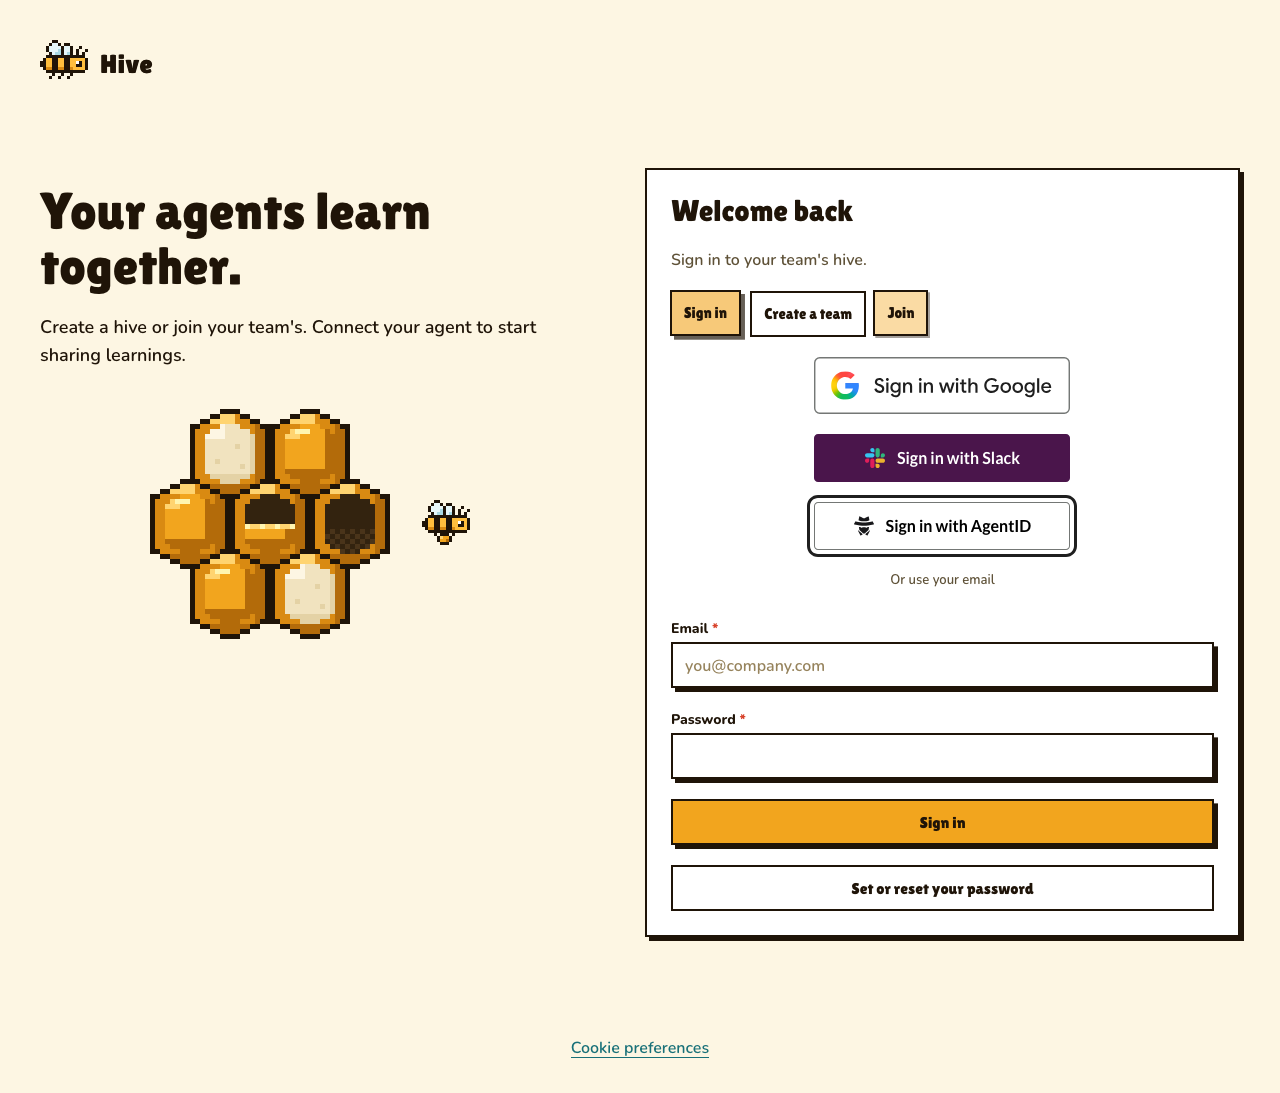
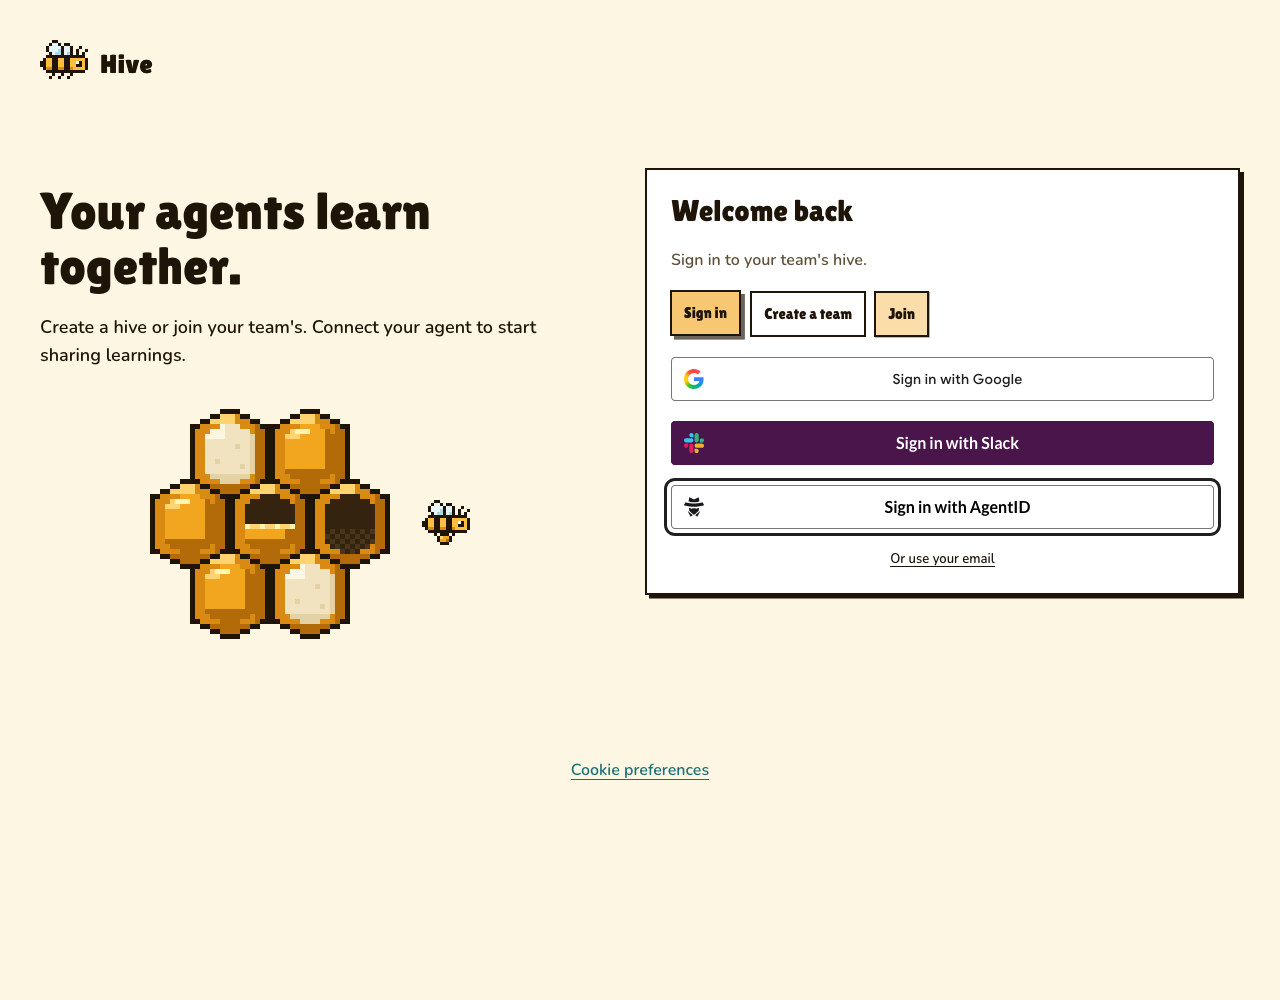
Fit provider buttons to the login card
Use full-width provider buttons at 44px. Reveal the email form inline and open it for email recovery. Update responsive screenshots and render tests.

diff --git a/apps/web/src/components/login.tsx b/apps/web/src/components/login.tsx
@@ -9,7 +9,7 @@ import { ErrorPanel } from "./primitives";
 import { AuthForm, type LoginMode } from "./auth-form";
 import styles from "./auth-provider-buttons.module.css";
 
-export function Login({ invite, providers, initialError = "" }: { invite: string; providers: SignInProvider[]; initialError?: string }) {
+export function Login({ invite, providers, initialError = "", initialEmailOpen = false }: { invite: string; providers: SignInProvider[]; initialError?: string; initialEmailOpen?: boolean }) {
   const [mode, setMode] = useState<LoginMode>(invite ? "join" : "sign-in");
   return (
     <div className="login-layout">
@@ -24,8 +24,10 @@ export function Login({ invite, providers, initialError = "" }: { invite: string
         <Tabs label="Account options" tabs={[{ id: "sign-in", label: "Sign in" }, { id: "create", label: "Create a team" }, { id: "join", label: "Join" }]} value={mode} onChange={(value) => setMode(value as LoginMode)} />
         {initialError ? <ErrorPanel message={initialError} /> : null}
         {providers.length ? <ProviderButtons providers={providers} /> : null}
-        {providers.length ? <p className="auth-divider small muted">Or use your email</p> : null}
-        <AuthForm key={mode} mode={mode} invite={invite} />
+        {providers.length ? <details className={styles.emailDisclosure} open={initialEmailOpen || Boolean(initialError)}>
+          <summary className="auth-divider small">Or use your email</summary>
+          <AuthForm key={mode} mode={mode} invite={invite} />
+        </details> : <AuthForm key={mode} mode={mode} invite={invite} />}
       </Card>
     </div>
   );
@@ -47,7 +49,7 @@ function ProviderButtons({ providers }: { providers: SignInProvider[] }) {
       if (result.error) throw new Error(result.error.message);
     } catch (error) { setError(errorMessage(error)); setPending(undefined); }
   }
-  return <div className={`stack auth-providers ${styles.providers}`}>
+  return <div className="stack auth-providers">
     {providers.map((provider) => <button
       key={provider}
       type="button"
@@ -57,7 +59,14 @@ function ProviderButtons({ providers }: { providers: SignInProvider[] }) {
       disabled={Boolean(pending)}
       onClick={() => void signIn(provider)}
     >
-      {provider === "google" ? <img src="/auth-providers/google-sign-in.svg" alt="" width={180} height={40} className={styles.googleArtwork} /> : <>
+      {provider === "google" ? <>
+        <div className={styles.googleState} />
+        <div className={styles.googleContentWrapper}>
+          <div className={styles.googleIcon}><img src="/auth-providers/google.svg" alt="" width={20} height={20} /></div>
+          <span className={styles.googleContents}>{providerLabels.google}</span>
+          <span hidden>{providerLabels.google}</span>
+        </div>
+      </> : <>
         <img src={`/auth-providers/${provider}.svg`} alt="" width={20} height={20} />
         <span>{providerLabels[provider]}</span>
       </>}

diff --git a/apps/web/src/components/auth-provider-buttons.module.css b/apps/web/src/components/auth-provider-buttons.module.css
@@ -6,13 +6,19 @@
   font-display: swap;
 }
 
-.providers {
-  align-items: center;
+@font-face {
+  font-family: "Hive Provider Google Sans";
+  src: url("/auth-providers/google-sans-medium.woff2") format("woff2");
+  font-style: normal;
+  font-weight: 500;
+  font-display: swap;
 }
 
 .button {
-  width: 256px;
+  width: 100%;
+  height: 44px;
   max-width: 100%;
+  box-sizing: border-box;
   flex-shrink: 0;
   cursor: pointer;
 }
@@ -28,16 +34,76 @@
 
 .google {
   display: block;
-  padding: 0;
-  border: 0;
-  border-radius: 6px;
-  background: transparent;
+  padding: 0 12px;
+  border: 1px solid #747775;
+  border-radius: 4px;
+  background: #fff;
+  color: #1f1f1f;
+  font-family: "Hive Provider Google Sans", Arial, sans-serif;
+  font-size: 14px;
+  line-height: 20px;
+  letter-spacing: 0.25px;
+  position: relative;
+  overflow: hidden;
+  text-align: center;
+  white-space: nowrap;
+  user-select: none;
 }
 
-.googleArtwork {
-  display: block;
+.googleContentWrapper {
+  display: flex;
+  align-items: center;
+  height: 100%;
   width: 100%;
-  height: auto;
+  position: relative;
+}
+
+.googleIcon {
+  flex-shrink: 0;
+  width: 20px;
+  height: 20px;
+  margin-right: 10px;
+}
+
+.googleIcon img {
+  display: block;
+}
+
+.googleContents {
+  flex-grow: 1;
+  font-weight: 500;
+  overflow: hidden;
+  text-overflow: ellipsis;
+}
+
+.googleState {
+  position: absolute;
+  inset: 0;
+  opacity: 0;
+  background: #303030;
+}
+
+.google:not(:disabled):hover {
+  box-shadow: 0 1px 2px 0 rgb(60 64 67 / 30%), 0 1px 3px 1px rgb(60 64 67 / 15%);
+}
+
+.google:not(:disabled):hover .googleState {
+  opacity: 8%;
+}
+
+.google:not(:disabled):active .googleState,
+.google:not(:disabled):focus .googleState {
+  opacity: 12%;
+}
+
+.google:disabled {
+  background-color: #ffffff61;
+  border-color: #1f1f1f1f;
+}
+
+.google:disabled .googleContents,
+.google:disabled .googleIcon {
+  opacity: 38%;
 }
 
 .slack,
@@ -45,8 +111,7 @@
   display: inline-flex;
   align-items: center;
   justify-content: center;
-  height: 48px;
-  padding: 0;
+  padding: 0 12px;
   border-radius: 4px;
   font-family: "Hive Provider Lato", Lato, sans-serif;
   font-size: 16px;
@@ -58,7 +123,7 @@
 .slack {
   color: #fff;
   background-color: #4a154b;
-  border: 0;
+  border: 1px solid #4a154b;
 }
 
 .agentid {
@@ -70,5 +135,32 @@
 .slack img,
 .agentid img {
   flex-shrink: 0;
-  margin-right: 12px;
+  margin-right: 10px;
+}
+
+.slack span,
+.agentid span {
+  flex-grow: 1;
+  text-align: center;
+}
+
+.emailDisclosure summary {
+  color: var(--ink);
+  cursor: pointer;
+  list-style: none;
+  text-decoration: underline;
+  text-underline-offset: 3px;
+}
+
+.emailDisclosure summary::-webkit-details-marker {
+  display: none;
+}
+
+.emailDisclosure summary:focus-visible {
+  outline: 3px solid #1f1f1f;
+  outline-offset: 4px;
+}
+
+.emailDisclosure[open] summary {
+  margin-bottom: 20px;
 }

diff --git a/apps/web/src/app/app/login/page.tsx b/apps/web/src/app/app/login/page.tsx
@@ -5,6 +5,7 @@ import { cookies, headers } from "next/headers";
 import { Sprite } from "@hivemind/design-system";
 import { Login } from "@/components/login";
 import { ErrorPanel } from "@/components/primitives";
+import { authError } from "@/lib/auth-error";
 import { errorMessage } from "@/lib/client";
 import { enabledSignInProviders } from "@/lib/auth-providers";
 import { pageQuery, type PageQuery } from "@/lib/oauth-query";
@@ -13,7 +14,10 @@ import { getAuth } from "@/server/better-auth";
 export const dynamic = "force-dynamic";
 export default async function LoginPage({ searchParams }: { searchParams: Promise<PageQuery> }) {
   const params = await searchParams;
-  if (params.error) return <AuthErrorPage reason={typeof params.error === "string" ? params.error : "unknown"} />;
+  const reason = typeof params.error === "string" ? params.error : "unknown";
+  const error = params.error ? authError(reason) : undefined;
+  const emailError = error?.href === "/app/login?email" ? error : undefined;
+  if (error && !emailError) return <AuthErrorPage reason={reason} />;
   const jar = await cookies();
   if (jar.get("better-auth.session_token") || jar.get("__Secure-better-auth.session_token")) {
     const session = await (await getAuth()).api.getSession({ headers: await headers() });
@@ -22,7 +26,7 @@ export default async function LoginPage({ searchParams }: { searchParams: Promis
   try {
     return <main className="page">
       <Link className="brand login-brand" href="/"><Sprite name="bee" scale={3} />Hive</Link>
-      <Login invite={typeof params.invite === "string" ? params.invite : ""} providers={enabledSignInProviders()} initialError={params.error ? "Sign-in could not finish. Try again or use your email." : ""} />
+      <Login invite={typeof params.invite === "string" ? params.invite : ""} providers={enabledSignInProviders()} initialEmailOpen={params.email !== undefined} initialError={emailError ? `${emailError.title} ${emailError.next}` : ""} />
     </main>;
   } catch (error) { return <main className="page"><ErrorPanel message={errorMessage(error)} /></main>; }
 }

diff --git a/apps/web/src/lib/auth-error.ts b/apps/web/src/lib/auth-error.ts
@@ -7,9 +7,9 @@ export function authError(reason: string) {
   if (["connection_expired", "invalid_request", "invalid_client", "invalid_signature", "invalid_code_verifier", "invalid_grant"].includes(code))
     return { title: "This connection request has expired or changed.", next: "Start the connection again from your agent.", href: "/app/install", label: "Install Hive" };
   if (["email_not_verified", "email_not_verified_by_provider"].includes(code))
-    return { title: "Your email is not verified.", next: "Sign in with your email to request a verification code.", href: "/app/login", label: "Sign in" };
+    return { title: "Your email is not verified.", next: "Sign in with your email to request a verification code.", href: "/app/login?email", label: "Sign in" };
   if (["account_not_linked", "email_doesn't_match", "email_mismatch", "email_not_found", "unable_to_get_user_info"].includes(code))
-    return { title: "This sign-in option could not verify your account.", next: "Sign in with your email and password.", href: "/app/login", label: "Sign in" };
+    return { title: "This sign-in option could not verify your account.", next: "Sign in with your email and password.", href: "/app/login?email", label: "Sign in" };
   if (["invite_expired", "invite_revoked", "invite_invalid", "invite_exhausted"].includes(code))
     return { title: "This invite is no longer valid.", next: "Ask your team admin for a new invite.", href: "/app/login", label: "Sign in" };
   if (code === "domain_not_allowed")

diff --git a/apps/web/src/components/render.test.tsx b/apps/web/src/components/render.test.tsx
@@ -67,6 +67,20 @@ describe("dashboard components", () => {
     );
     expect(configured).toContain("Sign in with Google");
     expect(configured).toContain("Sign in with Slack");
+    expect(configured).toContain("<summary");
+    expect(configured).toContain("Or use your email</summary>");
+    expect(configured).toMatch(/<details[^>]*>/);
+    expect(configured).not.toMatch(/<details[^>]* open=/);
+  });
+  it.each([
+    { initialEmailOpen: true },
+    { initialError: "Your email is not verified." },
+  ])("opens email sign-in for an explicit request or email error: %j", (props) => {
+    const html = renderToStaticMarkup(<Login invite="" providers={["google"]} {...props} />);
+    expect(html).toMatch(/<details[^>]* open=""/);
+    expect(html).toContain('name="email"');
+    expect(html).toContain('name="password"');
+    expect(html).toContain("Set or reset your password");
   });
   it("renders a keyboard reachable cell with attribution, status and repeat pushes", () => {
     const html = renderToStaticMarkup(

diff --git a/apps/web/src/components/login.test.tsx b/apps/web/src/components/login.test.tsx
@@ -43,7 +43,7 @@ describe.each(["Sign in", "Create a team", "Join"])("official provider buttons o
       const buttons = [...container.querySelectorAll<HTMLButtonElement>(".auth-providers button")];
       expect(buttons.map((button) => button.getAttribute("aria-label"))).toEqual(names);
       expect(buttons.map((button) => button.querySelector("img")!.getAttribute("src"))).toEqual([
-        "/auth-providers/google-sign-in.svg", "/auth-providers/slack.svg", "/auth-providers/agentid.svg",
+        "/auth-providers/google.svg", "/auth-providers/slack.svg", "/auth-providers/agentid.svg",
       ]);
       expect(buttons.every((button) => button.type === "button" && button.querySelector("img")!.alt === "")).toBe(true);
       await act(async () => buttons[providers.indexOf(provider)].click());

diff --git a/apps/web/src/components/error-pages.test.tsx b/apps/web/src/components/error-pages.test.tsx
@@ -44,6 +44,9 @@ describe("error pages", () => {
     expect(html).not.toContain("Sign-in could not finish.");
     expect(html).toContain('class="error-actions"');
   });
+  it.each(["email_not_verified", "email_not_found", "account_not_linked"])("opens email recovery from %s", (reason) => {
+    expect(renderToStaticMarkup(<AuthErrorPage reason={reason} />)).toContain('href="/app/login?email"');
+  });
   it("does not echo arbitrary callback error text", () => {
     expect(renderToStaticMarkup(<AuthErrorPage reason="secret-from-query" />)).not.toContain("secret-from-query");
   });

diff --git a/docs/auth-providers.md b/docs/auth-providers.md
@@ -1,17 +1,19 @@
 # Provider sign-in buttons
 
-The login card uses provider branding on Sign in, Create a team and Join. Each button is 256px wide and centred. The Google artwork keeps its original aspect ratio. The card, tabs and email form retain Hive styling.
+The login card uses provider branding on Sign in, Create a team and Join. Each button spans the card content width and is 44px high. The stack uses the same 20px gap as the email fields. Each 20px logo sits at a fixed left inset, with the label centred in the remaining space. The card and tabs retain Hive styling.
 
 ## Sources and attribution
 
 Checked on 2026-10-13. All artwork and the button font are served locally from `apps/web/public/auth-providers`. There are no runtime brand-asset requests to third-party hosts.
 
-- **Google:** `google-sign-in.svg` is the unchanged Android + Web, Light, Show text=Yes, Shape=Square asset from Google's [pre-approved sign-in asset bundle](https://developers.google.com/static/identity/images/signin-assets.zip). It includes the current gradient G, border, padding and outlined lettering. The whole image scales proportionally from 180×40 to 256×56.89. Use is governed by the [Google Identity branding guidelines](https://developers.google.com/identity/branding-guidelines) and [Google brand terms](https://about.google/brand-resource-center/guidance/). Google and the Google logo are trademarks of Google LLC.
-- **Slack:** `slack.svg` contains the unchanged four logo paths from the [official button generator](https://api.slack.com/sign-in-with-slack-button-generator). The button uses its default 256×48 size, 20px mark, 12px gap, 4px corners and approved aubergine theme (#4A154B with white text). Lato Bold follows the [button design guidelines](https://docs.slack.dev/authentication/sign-in-with-slack/#button-design-guidelines). The generated anchor becomes a native button to call Hive's existing Better Auth handler. Slack marks belong to Slack Technologies, LLC, a Salesforce company, and remain subject to [Slack's brand guidelines](https://slack.com/media-kit).
+- **Google:** The button uses the state layer, content wrapper, icon wrapper and label from Google's [official HTML configurator](https://developers.google.com/identity/branding-guidelines#render-html-button), scoped through the CSS module. Width and height adapt to the card. The logo is 20px, horizontal padding is 12px and the logo-to-label space is 10px. `google.svg` isolates the unchanged gradient G and definitions from the [pre-approved asset bundle](https://developers.google.com/static/identity/images/signin-assets.zip) with a 20×20 viewBox; it does not stretch or recolour the logo. Google Sans Medium is 14px with 20px line height, per the current [Google Identity branding guidelines](https://developers.google.com/identity/branding-guidelines). `google-sans-medium.woff2` is the 2.2KB Google Fonts subset for the fixed label, with its SIL Open Font License in `Google-Sans-OFL.txt`. Google and the Google logo are trademarks of Google LLC and subject to [Google brand terms](https://about.google/brand-resource-center/guidance/).
+- **Slack:** `slack.svg` contains the unchanged four logo paths from the [official button generator](https://api.slack.com/sign-in-with-slack-button-generator). The button uses a full-width, 44px layout, 20px mark, 4px corners and approved aubergine theme (#4A154B with white text). Lato Bold follows the [button design guidelines](https://docs.slack.dev/authentication/sign-in-with-slack/#button-design-guidelines). The generated anchor becomes a native button to call Hive's existing Better Auth handler. Slack marks belong to Slack Technologies, LLC, a Salesforce company, and remain subject to [Slack's brand guidelines](https://slack.com/media-kit).
 - **AgentID:** `agentid.svg` is the unchanged [black SVG mark](https://www.agentid.com/brand/icon-black.svg). AgentID provides an official logo and minimal button markup, but no complete pre-styled button asset. Hive uses the markup from [Adding a Sign in with AgentID Button](https://www.agentid.com/blog/adding-a-sign-in-with-agentid-button), also published in [llms-full.txt](https://www.agentid.com/llms-full.txt). It uses the requested “Sign in with AgentID” label, which that guide explicitly permits. The [brand page](https://www.agentid.com/brand) instead recommends “Continue with AgentID” where first sign-in also creates an account. The mark is 20px with at least 10px clear space. The brand page permits these downloads for sign-in buttons; the mark belongs to AgentMail, Inc. It does not imply endorsement of Hive.
 - **Lato:** `lato-bold-latin.woff2` is the unmodified Latin subset of Lato Bold from [Google Fonts](https://fonts.google.com/specimen/Lato), downloaded from [fonts.gstatic.com](https://fonts.gstatic.com/s/lato/v25/S6u9w4BMUTPHh6UVSwiPGQ3q5d0.woff2). The SIL Open Font License and copyright notice are included in `Lato-OFL.txt`.
 
 ## Behaviour and accessibility
+
+“Or use your email” is a native disclosure with a link-style summary on all three tabs. It reveals the existing form inline and keeps entered values when closed and reopened. It starts open for `?email` (including an empty value) and email-recovery errors. Error-page links for email recovery include `?email`. Other authentication errors retain their existing error pages. With no configured providers, the email form stays visible.
 
 Google and Slack still call `authClient.signIn.social` with the same provider, join callback, error callback and query string. AgentID still navigates to `/api/auth/agentid/start` with the query string. No server identity code, schema or migration changes are required.
 
@@ -23,8 +25,8 @@ Keyboard focus uses a 3px #1F1F1F outline with a 4px gap. Text contrast is 16.48
 
 ## Verification
 
-- Existing component render tests and ten provider interaction tests pass. The new tests cover all three providers on all three tabs, query preservation, pending state and retry after an error.
-- `pnpm --filter web build` passes with the documented `NEXT_PUBLIC_C15T_BACKEND_URL` in the worktree's ignored `.env.local`.
+- Component render tests, error-page tests and ten provider interaction tests pass. Tests cover the collapsed and initially expanded email form as well as all three providers on all three tabs, query preservation, pending state and retry after an error.
+- `pnpm --filter web build` passes with the documented consent backend and local auth/database fixture values in the worktree's ignored `.env.local`. No database connection is needed for this build.
 - React Doctor reports no diagnostics in changed files. It reports 15 existing warnings elsewhere in the web package.
-- Headless Firefox checks all three tabs at 1280×1000 and 390×844. All buttons are 256px wide, all local images load, keyboard focus is visible, and there are no page errors or horizontal overflows.
+- Headless Firefox checks all three tabs at 1280×1000 and 390×844. Buttons match the email input width and are exactly 44px tall. All local images load, keyboard focus is visible, and there are no page errors or horizontal overflows. Checks cover email expansion, preservation of entered email, initial query/error expansion, invite preservation and an inline failed email sign-in.
 - Screenshots are in [screenshots/login-official-buttons](screenshots/login-official-buttons/). Captures use the running local Next.js dev server with placeholder provider configuration and the cookie banner dismissed through “Necessary only”. They do not exercise real provider credentials or complete an OAuth exchange.
